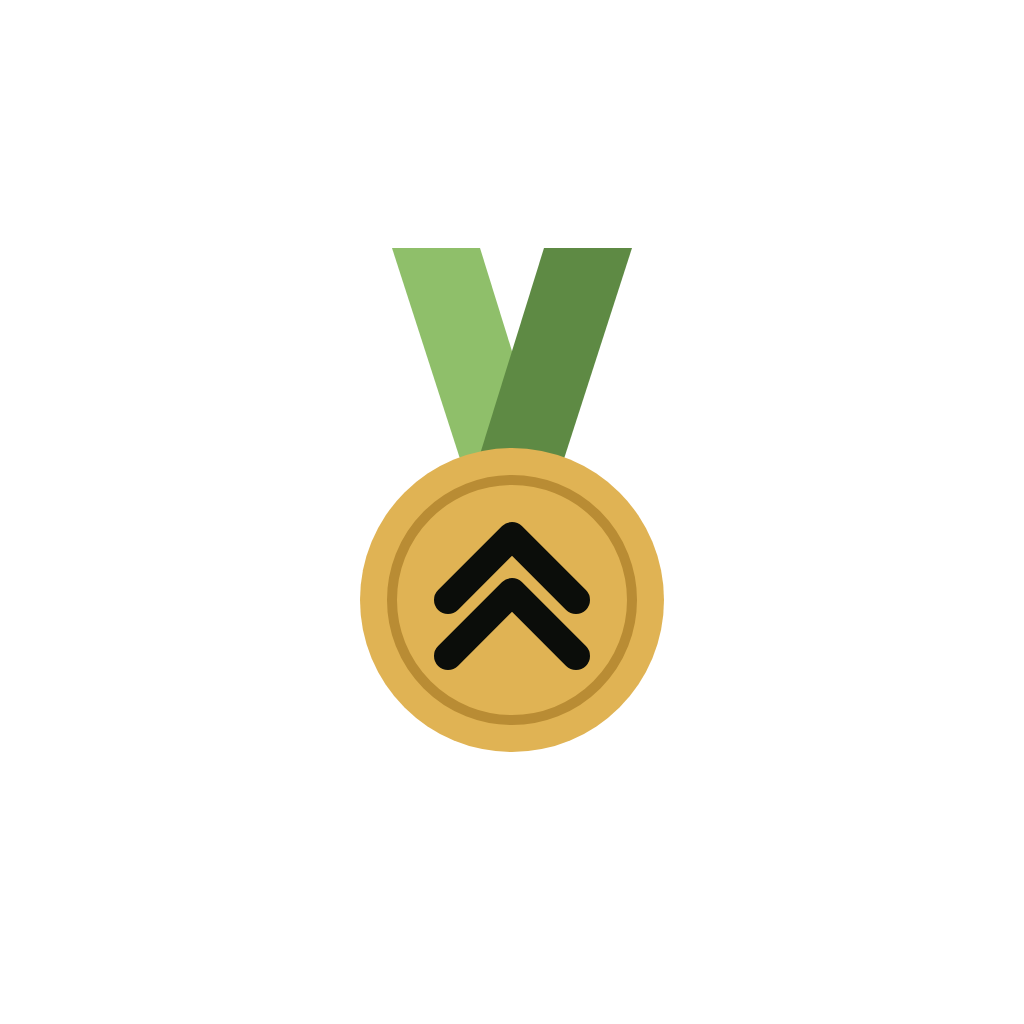
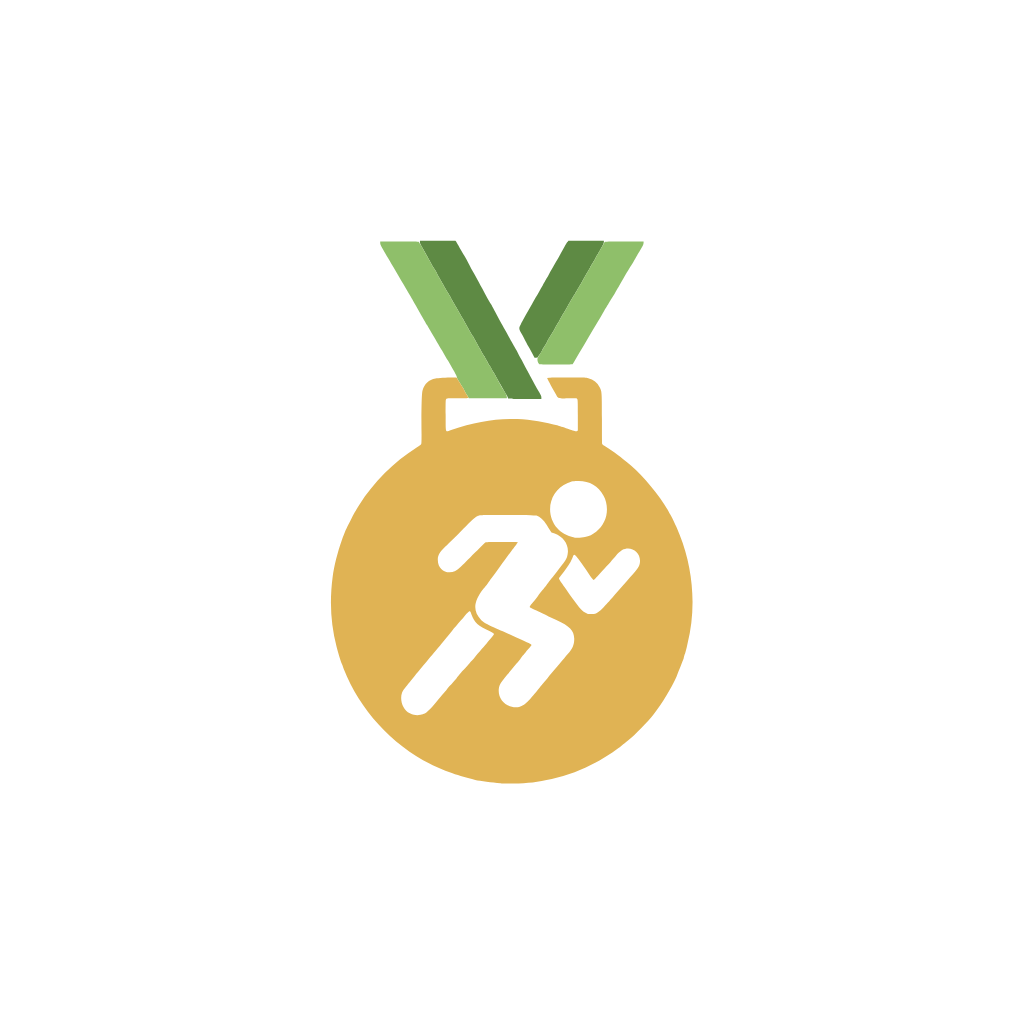
feat(brand): medal with a runner replaces the chevron medal
Generated with ElevenLabs, traced into clean outlines and recoloured to the
app palette. Emblem draws the new outlines; the app icon, adaptive icon
layers, splash and favicon are re-rendered from assets/brand/medal.svg.
The previous mark is kept as alt-chevron-medal.svg.

Claude-Session: https://claude.ai/code/session_01F4y93kTJs7u8ViHeCV3XbG

Changed region(s): [[0.3125, 0.2188, 0.6875, 0.7812]]

diff --git a/src/ui/emblemPaths.ts b/src/ui/emblemPaths.ts
@@ -1,0 +1,10 @@
+/**
+ * Outlines of the Chiong Bah medal, traced from assets/brand/medal.svg (a 1184 × 1720 box).
+ * The runner is a hole in the gold, so whatever sits behind the medal shows through it.
+ */
+export const MEDAL_VIEW = { w: 1184, h: 1720 };
+/** The disc's centre and radius, for the splash glint that sweeps across it. */
+export const MEDAL_DISC = { cx: 592, cy: 1139, r: 553 };
+export const RIBBON_LIGHT = 'M459 509C459 508 457 504 454 501C452 497 449 492 447 488C446 485 443 480 441 477C439 474 437 470 436 469C435 467 433 464 431 461C426 453 423 448 423 444C423 441 413 424 397 396C391 388 384 375 378 364C374 358 369 349 366 344C363 339 354 324 347 312C340 300 333 288 332 286C327 278 294 220 282 199C273 184 266 172 259 160C253 150 234 117 225 102C222 97 216 87 212 80C190 43 188 39 188 34L188 29L246 29C290 29 304 29 306 30C307 31 310 36 313 41C316 46 321 54 323 58C326 63 330 70 332 74C334 79 338 85 340 88C341 91 347 101 352 110C358 118 363 128 364 131C367 136 372 144 397 188C403 198 410 211 412 215C415 220 419 227 422 232C428 243 436 257 443 268C446 274 452 284 457 293C462 302 469 315 474 322C478 330 483 339 485 342C486 345 489 350 491 353C493 356 494 359 495 360C496 361 498 364 499 368C501 371 505 378 508 382C511 388 514 393 516 396C520 404 522 408 524 410C525 411 528 416 530 420C532 425 536 431 538 434C540 438 547 449 552 460C558 471 564 481 566 484C574 496 577 504 577 507L577 511L518 511C462 511 459 511 459 509ZM678 406C675 406 671 397 671 392C671 387 672 386 682 369C684 365 687 360 688 359C688 357 691 354 693 350C695 347 699 341 701 336C703 332 709 322 714 314C719 306 724 297 726 293C728 289 733 281 737 275C741 268 746 258 749 253C752 248 755 243 756 242C756 241 760 234 764 227C774 210 774 210 781 198C784 193 787 189 787 188C787 188 790 183 793 178C796 173 801 164 805 158C808 152 812 145 814 141C817 137 821 130 824 124C827 119 831 112 833 108C837 101 838 100 848 83C851 77 854 72 854 71C855 70 857 67 859 63C861 60 864 54 866 51C868 47 872 41 874 37C876 32 878 30 879 30C880 29 908 29 939 29L997 29L997 33C997 36 996 39 994 43C989 52 971 82 966 91C963 96 957 105 953 112C945 125 924 161 920 169C918 172 912 181 908 190C903 198 897 208 894 212C892 215 885 228 878 238C872 250 855 278 841 301C810 354 797 376 785 396C782 401 779 406 779 406C777 407 681 407 678 406Z';
+export const RIBBON_DARK = 'M581 511C581 510 579 507 578 504C576 501 572 495 570 491C554 462 540 438 538 434C536 432 534 428 532 425C531 422 528 417 526 413C521 406 519 402 516 396C514 393 511 388 508 382C505 378 501 371 499 368C498 364 496 361 495 360C494 359 493 356 491 353C489 350 486 345 485 342C483 339 478 330 474 322C469 315 462 302 457 293C452 284 446 274 443 268C436 257 428 243 422 232C419 227 415 220 412 215C410 211 403 198 397 188C372 144 367 136 364 131C363 128 358 118 352 110C347 101 341 91 340 88C338 85 334 79 332 74C327 65 321 55 315 44C311 37 310 34 310 31L310 27L364 27L419 27L421 29C423 32 434 52 454 86C461 100 470 117 474 124C481 136 498 168 514 197C517 202 524 215 530 224C535 234 547 256 556 273C566 290 579 314 586 327C593 340 603 357 607 364C611 372 618 386 623 394C637 421 638 422 642 430C644 433 647 439 649 443C660 463 667 476 675 490C682 502 683 505 683 508L683 513L632 513C582 513 581 513 581 511ZM654 371C650 363 644 352 640 346C637 340 630 327 625 317C613 296 613 296 620 283C622 278 627 270 630 264C647 234 656 219 665 202C671 193 680 175 687 164C693 153 699 143 699 142C699 142 702 138 704 134C712 119 722 102 735 80C742 67 750 52 754 45C758 38 762 31 764 30L766 27L821 27L875 27L875 31C875 35 871 43 865 52C864 55 861 59 859 63C857 67 855 70 854 71C854 72 851 77 848 83C838 100 837 101 833 108C831 112 827 119 824 124C821 130 817 137 814 141C812 145 808 152 805 158C801 164 796 173 793 178C790 183 787 188 787 188C787 189 784 193 781 198C774 210 774 210 764 227C760 234 756 241 756 242C755 243 752 248 749 253C746 258 741 268 737 275C733 281 728 289 726 293C724 297 719 306 714 314C709 322 703 332 701 336C699 341 695 347 693 350C691 354 688 358 687 359C687 361 684 366 682 370C679 373 676 379 674 381C672 386 672 386 667 386L662 386L654 371Z';
+export const MEDAL_GOLD = 'M557 1693C532 1691 495 1686 480 1683C452 1676 435 1672 408 1662C258 1610 134 1489 76 1342C74 1336 71 1328 70 1326C67 1319 57 1287 54 1274C36 1204 32 1135 42 1059C46 1027 58 981 69 950C81 917 83 913 96 888C107 865 112 857 123 839C168 768 230 706 300 662C309 656 314 653 314 651C315 650 315 638 315 622C314 569 315 494 318 487C324 466 337 454 358 450C366 448 407 446 418 447C423 447 423 447 425 451C426 453 429 458 431 461C433 464 435 467 436 469C437 470 439 474 441 477C443 480 446 485 447 488C449 492 452 497 454 501C459 508 460 510 457 510C456 511 442 511 424 511C394 511 393 511 391 513C389 515 389 516 389 561C389 609 389 611 394 612C395 612 400 610 406 608C473 585 533 574 594 574C634 574 681 580 720 591C725 592 731 594 734 594C736 595 750 599 764 604C788 612 791 613 793 611L795 610L795 563C795 522 795 515 793 513C792 511 792 511 765 511C733 511 735 512 728 499C711 469 701 450 701 449C701 447 720 446 782 447C816 447 820 447 827 449C843 453 855 462 862 477C869 491 869 490 869 575C869 623 869 651 870 652C871 653 875 656 880 659C906 676 926 690 959 718C997 751 1049 813 1073 857C1075 861 1077 865 1079 868C1086 880 1102 914 1108 931C1150 1037 1159 1155 1132 1264C1128 1283 1125 1294 1123 1298C1123 1299 1121 1304 1120 1310C1116 1320 1106 1346 1098 1366C1082 1401 1054 1448 1028 1481C1009 1505 970 1545 950 1561C930 1577 927 1580 920 1585C858 1631 787 1664 715 1680C670 1690 643 1693 597 1694C578 1694 560 1694 557 1693ZM312 1483C316 1482 322 1480 325 1479C331 1476 345 1462 359 1445C364 1439 373 1428 378 1422C383 1416 391 1408 394 1403C398 1398 403 1392 406 1390C414 1380 422 1372 424 1368C426 1366 434 1356 442 1347C451 1338 462 1325 466 1320C472 1314 480 1305 484 1299C506 1275 536 1238 537 1236C538 1233 535 1231 525 1226C488 1210 478 1201 468 1174C464 1160 463 1160 442 1186C434 1194 422 1209 414 1218C407 1228 398 1239 394 1243C390 1247 384 1255 380 1260C373 1269 324 1327 310 1344C307 1348 300 1356 295 1362C291 1368 283 1376 279 1382C268 1395 257 1409 255 1415C247 1438 258 1468 279 1478C292 1484 300 1485 312 1483ZM624 1455C636 1449 646 1439 678 1399C679 1397 683 1393 686 1389C689 1386 699 1374 708 1362C727 1340 753 1309 764 1296C779 1280 784 1267 784 1249C783 1224 770 1211 729 1192C718 1187 705 1181 700 1178C695 1176 686 1172 681 1169C663 1161 647 1153 647 1152C647 1150 652 1143 662 1132C665 1128 670 1121 673 1117C676 1113 681 1107 684 1103C687 1099 696 1088 704 1077C713 1066 724 1051 730 1044C760 1007 762 1003 764 987C768 961 751 936 724 926L714 923L709 915C706 911 702 904 699 899C689 884 679 875 668 871C663 870 508 868 496 870C484 872 483 872 436 919C412 943 390 965 386 968C370 984 364 994 365 1008C365 1037 393 1054 419 1041C429 1036 431 1034 480 984C497 968 511 953 512 953C514 952 610 952 611 953C611 953 610 955 608 957C607 959 600 969 592 978C577 999 568 1011 555 1029C544 1044 536 1056 526 1068C523 1073 519 1078 517 1081C515 1084 510 1090 505 1096C474 1136 472 1164 498 1192C506 1200 513 1204 558 1224C566 1227 577 1232 583 1235C589 1238 600 1243 608 1246C659 1269 655 1266 650 1272C648 1275 643 1281 638 1286C634 1292 629 1298 626 1301C624 1304 620 1309 618 1312C615 1316 610 1322 606 1326C602 1330 597 1337 594 1341C591 1344 584 1353 578 1360C556 1386 552 1394 552 1410C552 1438 576 1460 605 1460C614 1460 615 1459 624 1455ZM852 1171C859 1168 870 1159 881 1145C887 1139 899 1125 926 1094C938 1080 954 1062 964 1051C982 1032 986 1023 986 1010C986 981 956 963 931 977C925 981 917 988 912 994C909 998 901 1006 895 1014C888 1021 878 1032 872 1039C854 1059 845 1069 843 1069C842 1068 837 1062 832 1055C821 1038 802 1011 793 1000C784 988 783 988 778 1002C771 1018 764 1028 748 1049C742 1056 737 1063 737 1064C737 1066 741 1072 788 1138C804 1161 814 1169 826 1173C832 1174 845 1174 852 1171ZM817 937C842 932 864 914 876 889C888 866 887 832 874 810C858 780 831 765 798 765C782 765 776 766 764 771C708 794 692 864 732 910C745 924 761 934 784 938C789 940 808 939 817 937Z';

diff --git a/src/ui/Emblem.tsx b/src/ui/Emblem.tsx
@@ -1,47 +1,34 @@
 import { useEffect } from 'react';
 import { StyleSheet, View } from 'react-native';
 import Animated, { useAnimatedStyle, useSharedValue, withDelay, withTiming } from 'react-native-reanimated';
-import Svg, { Circle, Path, Polygon } from 'react-native-svg';
+import Svg, { Path, Polygon } from 'react-native-svg';
+import { MEDAL_DISC as DISC, MEDAL_GOLD, MEDAL_VIEW, RIBBON_DARK, RIBBON_LIGHT } from './emblemPaths';
 import { DURATION, EASE, EASE_STANDARD, useMotionOK } from './motion';
 import { colors } from './theme';
 
 /**
- * The Chiong Bah mark: a gold medal on a short V-shaped green ribbon, with two generic rank
- * chevrons on its face (redesign spec section 3.1). Drawn in a 120 × 140 box.
+ * The Chiong Bah mark: a gold medal on a short V-shaped green ribbon, with a runner in mid-stride
+ * cut out of its face. Drawn in a 1184 × 1720 box (see emblemPaths.ts).
  * No official crests, insignia, weapons or targets.
  */
-const VIEW_W = 120;
-const VIEW_H = 140;
-const DISC = { cx: 60, cy: 92, r: 38 };
+const VIEW_W = MEDAL_VIEW.w;
+const VIEW_H = MEDAL_VIEW.h;
 
 function Ribbon() {
   return (
     <>
-      <Polygon points="30,4 52,4 70,62 50,66" fill={colors.accent} />
-      <Polygon points="90,4 68,4 50,62 70,66" fill={colors.accentDark} />
+      <Path d={RIBBON_DARK} fill={colors.accentDark} fillRule="evenodd" />
+      <Path d={RIBBON_LIGHT} fill={colors.accent} fillRule="evenodd" />
     </>
   );
 }
 
 function Disc() {
-  return (
-    <>
-      <Circle cx={DISC.cx} cy={DISC.cy} r={DISC.r} fill={colors.gold} />
-      <Circle cx={DISC.cx} cy={DISC.cy} r={30} fill="none" stroke={colors.goldDark} strokeWidth={2.5} />
-      <Path
-        d="M44 92 L60 76 L76 92 M44 106 L60 90 L76 106"
-        fill="none"
-        stroke={colors.bg}
-        strokeWidth={7}
-        strokeLinecap="round"
-        strokeLinejoin="round"
-      />
-    </>
-  );
+  return <Path d={MEDAL_GOLD} fill={colors.gold} fillRule="evenodd" />;
 }
 
 type Props = {
-  /** Height in px; width follows the 120 × 140 proportions. */
+  /** Height in px; width follows the medal's proportions. */
   size?: number;
   /** Runs the splash entrance: medal rises, ribbon drops, a glint sweeps the disc. */
   animated?: boolean;
@@ -86,9 +73,9 @@ function AnimatedMedal({ width, height, a11y }: { width: number; height: number;
     opacity: medal.value,
     transform: [{ translateY: (1 - medal.value) * 14 }, { scale: 0.92 + 0.08 * medal.value }],
   }));
-  const ribbonStyle = useAnimatedStyle(() => ({ transform: [{ translateY: (ribbon.value - 1) * 10 * s }] }));
+  const ribbonStyle = useAnimatedStyle(() => ({ transform: [{ translateY: (ribbon.value - 1) * 120 * s }] }));
   // The band starts left of the disc and leaves past its right edge; reduced motion parks it off the disc.
-  const glintStyle = useAnimatedStyle(() => ({ transform: [{ translateX: glint.value * 200 * s }] }));
+  const glintStyle = useAnimatedStyle(() => ({ transform: [{ translateX: glint.value * 2100 * s }] }));
 
   const disc = { left: (DISC.cx - DISC.r) * s, top: (DISC.cy - DISC.r) * s, size: DISC.r * 2 * s };
   const viewBox = `0 0 ${VIEW_W} ${VIEW_H}`;
@@ -104,7 +91,7 @@ function AnimatedMedal({ width, height, a11y }: { width: number; height: number;
       >
         <Animated.View style={[{ position: 'absolute', left: -disc.left, top: -disc.top, width, height }, glintStyle]}>
           <Svg width={width} height={height} viewBox={viewBox}>
-            <Polygon points="-30,40 -12,40 -42,150 -60,150" fill={colors.goldShine} opacity={0.6} />
+            <Polygon points="-360,500 -150,500 -520,1800 -730,1800" fill={colors.goldShine} opacity={0.6} />
           </Svg>
         </Animated.View>
       </View>

diff --git a/scripts/render-brand.js b/scripts/render-brand.js
@@ -9,23 +9,17 @@ const { chromium } = require('playwright');
 const ROOT = path.resolve(__dirname, '..');
 const BG = '#0B0D0A';
 const medal = fs.readFileSync(path.join(ROOT, 'assets/brand/medal.svg'), 'utf8').replace(/<title>.*?<\/title>/, '');
-// Monochrome icon: one colour, with the inner ring and chevrons cut out so the shape still reads.
-const mono = `<svg xmlns="http://www.w3.org/2000/svg" viewBox="0 0 120 140">
-  <defs><mask id="m"><rect width="120" height="140" fill="white"/>
-    <circle cx="60" cy="92" r="30" fill="none" stroke="black" stroke-width="2.5"/>
-    <path d="M44 92 L60 76 L76 92 M44 106 L60 90 L76 106" fill="none" stroke="black" stroke-width="7" stroke-linecap="round" stroke-linejoin="round"/>
-  </mask></defs>
-  <g mask="url(#m)" fill="white">
-    <polygon points="30,4 52,4 70,62 50,66"/><polygon points="90,4 68,4 50,62 70,66"/><circle cx="60" cy="92" r="38"/>
-  </g></svg>`;
+// Monochrome icon: one colour. The runner is already cut out of the gold, so the shape still reads.
+const mono = medal.replace(/fill="#[0-9A-Fa-f]{6}"/g, 'fill="white"');
+const [VW, VH] = /viewBox="0 0 (\d+) (\d+)"/.exec(medal).slice(1).map(Number);
 
 /** A square (or w × h) page with the medal `height` px tall, centred, on `bg`. */
 const page = (svg, { w, h = w, height, bg = 'transparent' }) => `<!doctype html><html><body style="margin:0;width:${w}px;height:${h}px;background:${bg};display:flex;align-items:center;justify-content:center">
-  <div style="height:${height}px;width:${(height * 120) / 140}px">${svg.replace('<svg ', '<svg style="width:100%;height:100%" ')}</div></body></html>`;
+  <div style="height:${height}px;width:${(height * VW) / VH}px">${svg.replace('<svg ', '<svg style="width:100%;height:100%" ')}</div></body></html>`;
 
 const OUT = [
   // App icon (legacy and Play Store listing): medal on the app background.
-  { file: 'icon.png', html: page(medal, { w: 1024, height: 680, bg: BG }) },
+  { file: 'icon.png', html: page(medal, { w: 1024, height: 760, bg: BG }) },
   // Adaptive icon: the foreground keeps the medal inside the 66 % safe zone (676 px of 1024).
   { file: 'android-icon-foreground.png', html: page(medal, { w: 1024, height: 560 }) },
   { file: 'android-icon-background.png', html: page('<svg></svg>', { w: 1024, height: 0, bg: BG }) },

diff --git a/assets/brand/README.md b/assets/brand/README.md
@@ -1,8 +1,11 @@
 # Brand
 
-`medal.svg` is the Chiong Bah mark (redesign spec, section 3.1). The app draws it with
+`medal.svg` is the Chiong Bah mark: a gold medal on a V ribbon with a runner cut out of its face.
+It was generated with ElevenLabs (Recraft vector), traced into clean outlines and recoloured to
+the app palette. `src/ui/emblemPaths.ts` holds the same outlines for the app. The app draws it with
 `src/ui/Emblem.tsx`; the PNGs in `assets/images` (app icon, adaptive icon layers, splash and
 favicon) are rendered from it with `scripts/render-brand.js`.
 
-`alt-chevrons.svg` and `alt-dogtag.svg` are the two marks that were considered and not chosen.
+`alt-chevron-medal.svg` (the previous mark, with two chevrons), `alt-chevrons.svg` and
+`alt-dogtag.svg` are marks that were considered and not chosen.
 They are kept here in case the choice changes. Do not ship them.
